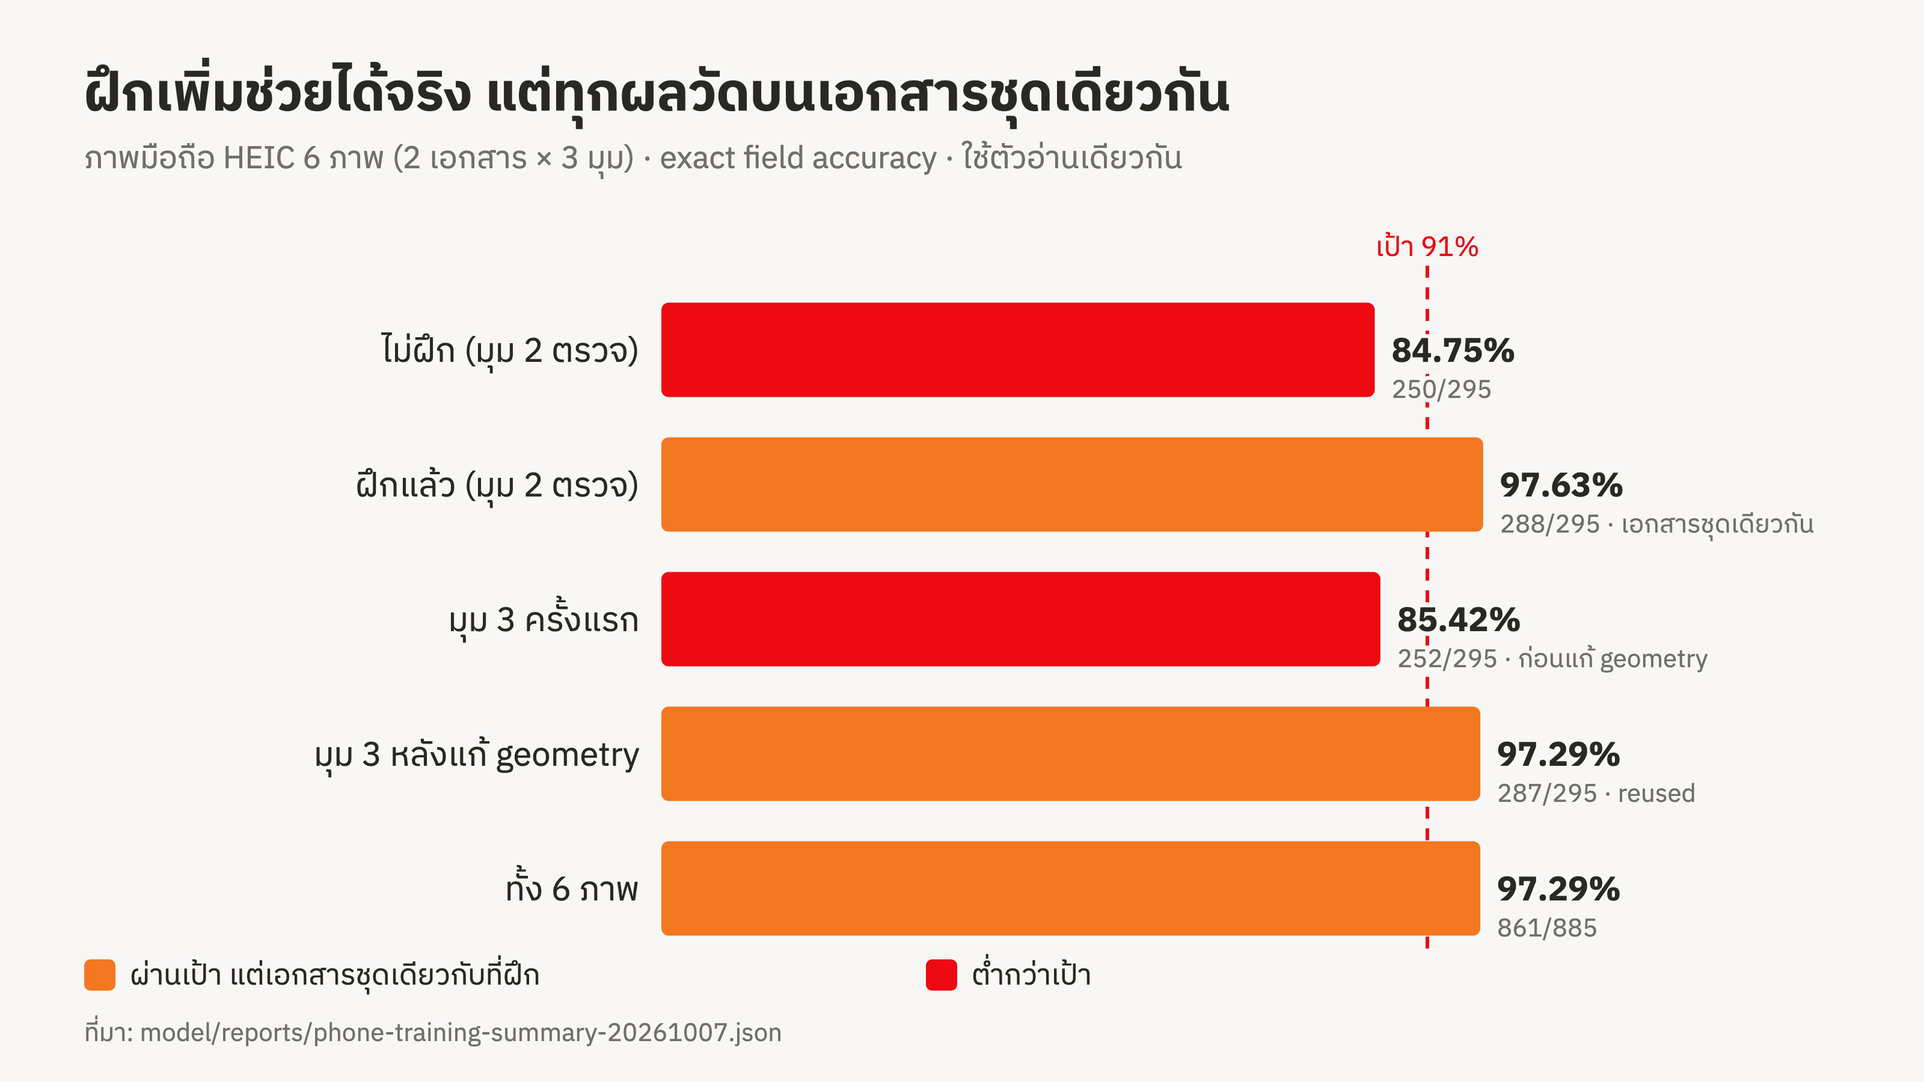
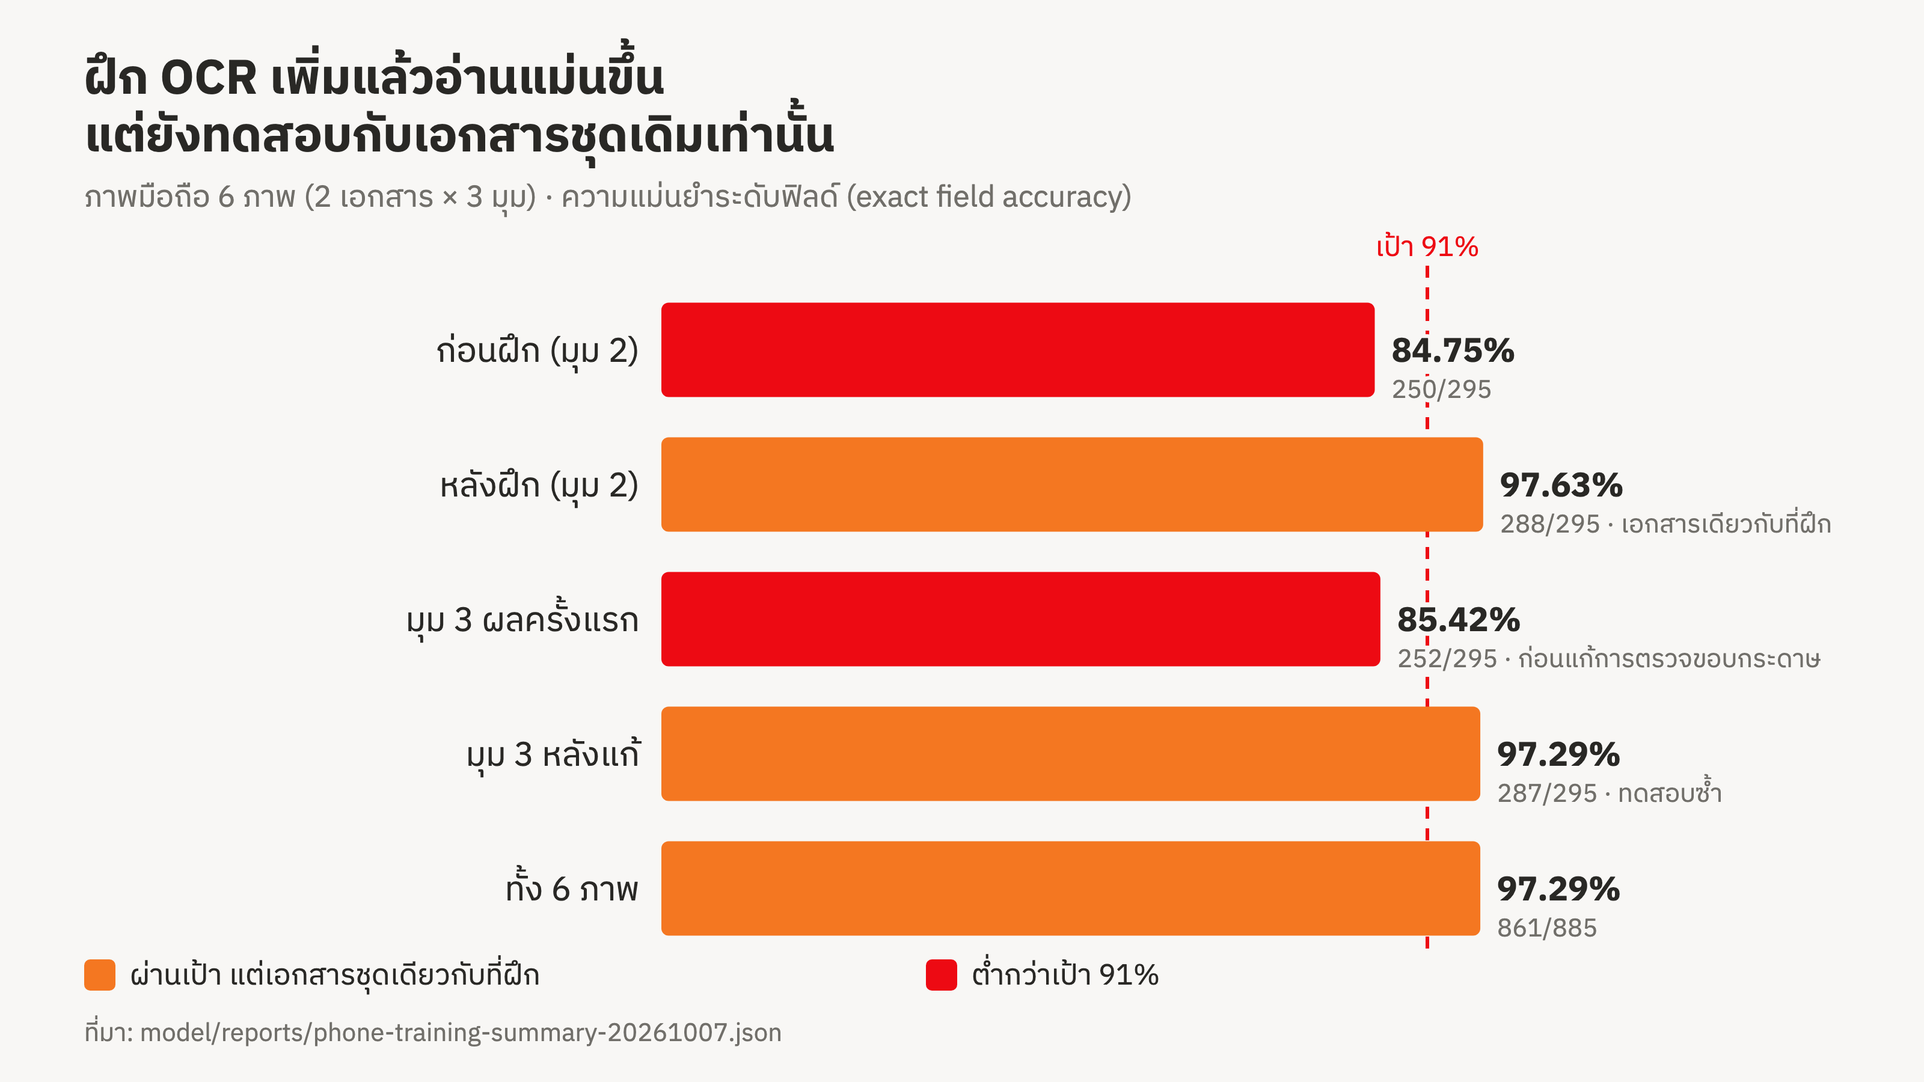
up

diff --git a/docs/presentation/slide.md b/docs/presentation/slide.md
@@ -447,7 +447,7 @@
 
 ### B2 · ตารางผลเต็ม
 
-**ชื่อสไลด์:** ผลทั้งหมดแยกชนิดอินพุต และระบุสถานะ blind / reused
+**ชื่อสไลด์:** ผลทดสอบทุกชุด แยกตามชนิดไฟล์ และบอกว่าชุดไหนเคยใช้ปรับระบบแล้ว
 
 **ผังหน้า (16:9)**
 
@@ -459,18 +459,20 @@
 | D | ล่างขวา (≈ 22%) | ตาราง T3: ภาพ augmented แยกความเสียหาย |
 | E | แถวล่างสุด | footnote ที่มา (ตัวเล็ก) |
 
-**T1 — ผลหลัก** (สถานะ: เขียว = ผ่านเป้า · ส้ม = ผ่านแต่ reused/ไม่ใช่ holdout · แดง = ต่ำกว่าเป้า)
+**T1 — ผลหลัก** (สถานะ: เขียว = ผ่านเป้า · ส้ม = ผ่านเป้า แต่ชุดนี้เคยใช้ปรับระบบแล้ว · แดง = ต่ำกว่าเป้า 91%)
+
+คำอธิบายใต้ตาราง 1 บรรทัด: **blind** = ทดสอบครั้งแรกก่อนแก้ระบบ · **reused** = ทดสอบซ้ำกับชุดเดิมหลังแก้ระบบแล้ว
 
 | ชุดอินพุต | ถูก/ทั้งหมด | Exact field | Row F1 | เวลาเฉลี่ย (วินาที) | สถานะ |
 |---|---:|---:|---:|---:|---|
 | PDF dev 35 ฉบับ | 4394/4551 | 96.55% | — | — | ส้ม · ชุดที่ใช้ปรับระบบ |
-| PDF test ครั้งแรก | 1182/1338 | 88.34% | — | — | **แดง · blind ไม่ผ่าน** |
-| PDF test หลังปรับ | 1307/1338 | 97.68% | — | — | ส้ม · reused |
-| ภาพต้นฉบับ PNG 150 DPI (test 12 ฉบับ) | 1281/1338 | 95.74% | 100% | 9.42 | ส้ม · reused |
-| ภาพ noise 47 ภาพ | 5445/5889 | 92.46% | 98.10% | 12.18 | ส้ม · dev+test รวม |
+| PDF test ครั้งแรก | 1182/1338 | 88.34% | — | — | **แดง · blind (ครั้งแรก) ไม่ผ่านเป้า** |
+| PDF test หลังปรับระบบ | 1307/1338 | 97.68% | — | — | ส้ม · reused (ทดสอบซ้ำ) |
+| ภาพต้นฉบับ PNG 150 DPI (test 12 ฉบับ) | 1281/1338 | 95.74% | 100% | 9.42 | ส้ม · reused (ทดสอบซ้ำ) |
+| ภาพ noise 47 ภาพ | 5445/5889 | 92.46% | 98.10% | 12.18 | ส้ม · รวมชุด dev และ test |
 | ภาพ augmented ผสม 60 ภาพ | 4373/6270 | **69.74%** | 82.55% | 14.22 (สูงสุด 44.33) | **แดง · ต่ำกว่าเป้า** |
-| ภาพมือถือ HEIC 6 ภาพ | 861/885 | 97.29% | 99.46% | 27.54 (สูงสุด 28.64) | ส้ม · เอกสารชุดเดียวกับที่ฝึก |
-| ภาพถ่ายหน้าจอ 4 มุม (เอกสารเดียว) | 423/600 | **70.50%** | 76.03% | 30.90 | **แดง · dev regression** |
+| ภาพมือถือ HEIC 6 ภาพ | 861/885 | 97.29% | 99.46% | 27.54 (สูงสุด 28.64) | ส้ม · เป็นเอกสารเดียวกับที่ใช้ฝึก |
+| ภาพถ่ายหน้าจอ 4 มุม (เอกสารเดียว) | 423/600 | **70.50%** | 76.03% | 30.90 | **แดง · ต่ำกว่าเป้า (ทดสอบเอกสารเดียว)** |
 
 **T2 — ภาพต้นฉบับแยกกลุ่มเอกสาร**
 
@@ -495,7 +497,7 @@
 
 ### B3 · การทดลอง Local VLM
 
-**ชื่อสไลด์:** Local VLM ช้าและแม่นน้อย จึงไม่เลือกเป็นเส้นทางหลัก
+**ชื่อสไลด์:** โมเดลอ่านภาพที่รันในเครื่อง (Local VLM) ช้าและแม่นน้อย จึงไม่ใช้เป็นวิธีหลัก
 
 **ผังหน้า (16:9)**
 
@@ -513,7 +515,7 @@
 | โมเดล | `scb10x/typhoon-ocr1.5-3b` → `qwen3:4b` (Ollama ในเครื่อง) |
 | อินพุต | ภาพ PNG 150 DPI จากชุด dev |
 | จำนวน | 4 ฉบับ (รูปแบบละ 1) |
-| ขีดจำกัดเวลา | 120 วินาที (ขั้น OCR) |
+| เวลาสูงสุดที่รอ (timeout) | 120 วินาที ในขั้นอ่านภาพ |
 | ค่า API | 0 USD |
 
 **T2 — ผลแต่ละรูปแบบ**
@@ -525,19 +527,19 @@
 | บัณฑิตศึกษา ไทย | timeout | > 120 วินาที |
 | บัณฑิตศึกษา อังกฤษ | timeout | > 120 วินาที |
 
-**T3 — เทียบกับเส้นทางที่ใช้จริง**
+**T3 — เทียบกับวิธีที่ระบบใช้งานจริง (Hybrid)**
 
-| เส้นทาง | Exact field | เวลาเฉลี่ย | ชุดข้อมูล |
+| วิธี | Exact field | เวลาเฉลี่ย | ชุดข้อมูล |
 |---|---:|---:|---|
 | **Hybrid** | **98.26%** | **0.43 วินาที** | PDF 8 ฉบับ |
-| Local VLM | 1.33% | 121.1 วินาที | **ภาพ PNG 4 ฉบับ (คนละชุด)** |
+| Local VLM | 1.33% | 121.1 วินาที | **ภาพ PNG 4 ฉบับ (คนละชุดกับ Hybrid)** |
 
 ข้อจำกัดของข้อสรุป: ทดสอบบนเครื่องที่ใช้พัฒนาเท่านั้น และเพียง 4 ฉบับ
 **Footnote:** `model/reports/vlm-dev.json`, `docs/process.md` (Decision Log 2026-09-20)
 
 ### B4 · การฝึก Tesseract สำหรับภาพมือถือ
 
-**ชื่อสไลด์:** ฝึกเพิ่มลด CER ได้จริง แต่ทุกผลวัดบนเอกสารชุดเดียวกัน
+**ชื่อสไลด์:** ฝึก OCR เพิ่มด้วยภาพมือถือ ทำให้อ่านผิดน้อยลงมาก แต่ยังทดสอบกับเอกสารชุดเดิมเท่านั้น
 
 **ผังหน้า (16:9)**
 
@@ -555,31 +557,31 @@
 |:---:|---|---|
 | 1 | ฝึก | 109 บรรทัด |
 | 2 | ตรวจ / เลือกค่า | 109 บรรทัด (2 ภาพ · 295 ฟิลด์) |
-| 3 | ทดสอบสุดท้าย (กันไว้) | 2 ภาพ · 295 ฟิลด์ |
+| 3 | ทดสอบสุดท้าย (เก็บไว้ ไม่ใช้ฝึก) | 2 ภาพ · 295 ฟิลด์ |
 
-**T2 — การลองชุดค่า** (baseline CER: Tesseract ที่ติดตั้ง 8.83% · weights รุ่นก่อน 7.86%)
+**T2 — การลองชุดค่า** (CER = อัตราอ่านผิดต่อตัวอักษร ยิ่งต่ำยิ่งดี · ก่อนฝึก: Tesseract ตัวที่ติดตั้ง 8.83% · โมเดลที่ฝึกจากภาพรุ่นก่อน 7.86%)
 
-| iterations | learning rate | CER (validation) | ผล |
+| จำนวนรอบฝึก (iterations) | learning rate | CER บนชุดตรวจ | ผล |
 |---:|---:|---:|---|
 | 100 | 0.0001 | 6.17% | |
 | **300** | **0.0001** | **2.31%** | **เลือก** |
 | 600 | 0.0001 | 2.49% | |
 | 300 | 0.0003 | 2.31% | เท่ากับที่เลือก ไม่ได้ดีกว่า |
 
-**กราฟ D:** ไม่ฝึก 84.75% → ฝึกแล้ว 97.63% (มุม 2) · มุม 3 ครั้งแรก 85.42% (ตรวจขอบกระดาษไม่ผ่านในบางภาพ และมีขอบมืดรวมบรรทัดหัวเอกสาร) → หลังแก้ geometry 97.29% **ต้องเรียก reused** ไม่ใช่ blind · ทั้ง 6 ภาพ 97.29% (row F1 99.46%, รหัสนักศึกษา 6/6, GPA สะสม 6/6)
+**กราฟ D (ความแม่นยำของฟิลด์):** ก่อนฝึก 84.75% → หลังฝึก 97.63% (มุม 2) · มุม 3 ครั้งแรก 85.42% เพราะตรวจขอบกระดาษไม่ผ่านในบางภาพและมีขอบมืดรวมบรรทัดหัวเอกสาร → หลังแก้การตรวจขอบกระดาษ 97.29% (นับเป็นการทดสอบซ้ำ ไม่ใช่ผลครั้งแรก) · ทั้ง 6 ภาพ 97.29% (รหัสนักศึกษาถูก 6/6, GPA สะสมถูก 6/6)
 **วิธีเตรียมข้อมูล:** จัดแนว PDF ต้นฉบับกับภาพด้วย SIFT + RANSAC (ใช้ตอนเตรียมข้อมูลฝึกเท่านั้น ไม่ใช้ตอนอ่านจริง)
 **Footnote:** `phone-training-summary-20261007.json`, `model/data/phone_ocr/training.json` (ตาราง T2 ส่วน 100/600 iterations และ lr 0.0003 มาจาก `docs/process.md`)
 
 ### B5 · ป้องกัน overfit
 
-**ชื่อสไลด์:** กัน catalog ออกทั้งฉบับ ผลลดลงเพียง 2.3 จุด แต่ยังไม่ใช่ holdout อิสระของทั้งระบบ
+**ชื่อสไลด์:** ตัดเอกสารที่วัดออกจากพจนานุกรมรายวิชา (catalog) ผลลดลงแค่ 2.3 จุด แต่ยังไม่ใช่การทดสอบกับเอกสารใหม่จริงๆ
 
 **ผังหน้า (16:9)**
 
 | โซน | พื้นที่ | เนื้อหา |
 |---|---|---|
 | A | แถวบน | ชื่อสไลด์ |
-| B | ซ้าย 55% | กราฟ `slide_assets/charts/b05_overfit.png` (3 แท่ง + เส้นเป้า 91%) |
+| B | ซ้าย 55% | กราฟ `slide_assets/charts/b05_overfit.png` (3 แท่ง + เส้นเป้า 91%) · catalog = พจนานุกรมรหัสวิชาและชื่อวิชาที่ใช้ซ่อมข้อความ OCR |
 | C | ขวา 45% | ตาราง T1: มาตรการป้องกัน และข้อจำกัดที่เหลือ |
 | D | แถวล่างสุด | footnote ที่มา |
 
@@ -588,12 +590,12 @@
 | มาตรการ | สถานะ | หมายเหตุ |
 |---|:---:|---|
 | catalog รหัสวิชา/หัวข้อ สร้างจากชุด dev เท่านั้น | ✓ ทำแล้ว | ไม่ใช้ชุด test |
-| วัดแบบกันเอกสารที่กำลังวัดออกจาก catalog ทั้งฉบับ | ✓ ทำแล้ว | `model/tools/benchmark_catalog_cv.py` |
+| วัดซ้ำโดยตัดเอกสารที่กำลังวัดออกจาก catalog ทั้งฉบับ | ✓ ทำแล้ว | `model/tools/benchmark_catalog_cv.py` |
 | ไม่ใช้เฉลยหรือชื่อไฟล์ตอนอ่าน (inference) | ✓ ทำแล้ว | parse ด้วยกฎล้วน |
-| parser/heuristic เคยปรับบนชุด dev | ✗ ข้อจำกัด | จึงไม่ใช่ holdout อิสระของทั้งระบบ |
-| ชุด test ถูกใช้วิเคราะห์ข้อผิดพลาดแล้ว | ✗ ข้อจำกัด | ผลหลังปรับเรียก reused |
+| ตัวแปลงข้อมูลและกฎซ่อมเคยปรับบนชุด dev | ✗ ข้อจำกัด | จึงยังไม่ใช่การทดสอบกับเอกสารใหม่จริงๆ |
+| ชุด test เคยถูกใช้วิเคราะห์ข้อผิดพลาดแล้ว | ✗ ข้อจำกัด | ผลหลังปรับจึงเป็นการทดสอบซ้ำ (reused) |
 
-**Footnote:** `noise-dev-term-fix.json` (94.42%), `noise-dev-catalog-held-out.json` (92.11%), `original-dev-catalog-held-out-all.json` (92.11%)
+**Footnote:** `noise-dev-term-fix.json` (94.42% catalog มีเอกสารที่วัดอยู่ด้วย), `noise-dev-catalog-held-out.json` (92.11% ตัดเอกสารที่วัดออก), `original-dev-catalog-held-out-all.json` (92.11% ตัดเอกสารที่วัดออก)
 
 ### B6 · การตรวจเฉลย (audit)
 
@@ -622,7 +624,7 @@
 | วิธีคิด | ถูก/ทั้งหมด | Exact field |
 |---|---:|---:|
 | ตามเฉลยเดิม (raw) | 1281/1338 | **95.74%** |
-| ตัดฟิลด์ที่เฉลยไม่ตรงทั้ง 23 ออก (conservative) | 1281/1315 | 97.41% |
+| ไม่นับฟิลด์ที่เฉลยไม่ตรงทั้ง 23 ฟิลด์ (นับเฉพาะที่เฉลยถูก) | 1281/1315 | 97.41% |
 | ตามเอกสารที่มองเห็น (เพิ่ม 11 ค่าที่ OCR ตรงเอกสาร ตัด 12 ฟิลด์ที่ไม่มีในเอกสาร) | 1292/1326 | 97.44% |
 
 **รุ่นก่อนหน้า (ตัวอย่างที่ audit มีผลต่อเป้า 91%):** ตามเฉลยเดิม 1211/1338 = 90.51% · ตามภาพที่ตรวจแล้ว 1221/1338 = 91.26% (แก้ 10 จุดวันที่ที่ OCR ตรงกับเอกสาร)
@@ -727,8 +729,8 @@ erDiagram
 | คำถาม | คำตอบ (พูดไม่เกิน 20 วินาที) | เปิดหน้า |
 |---|---|---|
 | ทำไมไม่ใช้ LLM/VLM อ่านเลย | ลองแล้ว Typhoon OCR + Qwen สำเร็จ 1/4 ฉบับ ถูก 1.33% ใช้ 121 วินาที ส่วน Hybrid 98.26% ใน 0.43 วินาที parser เป็นกฎที่แน่นอน จึงไม่แต่งข้อมูล | B3, S4 |
-| ผลนี้ overfit หรือไม่ | ลดความเสี่ยงโดยสร้าง catalog จาก dev เท่านั้น วัดแบบกันเอกสารออกได้ 92.11% เทียบ in-sample 94.42% แต่ parser ปรับบน dev และ test ถูกใช้แล้ว จึงยังไม่ใช่ holdout อิสระ | B5 |
-| blind กับ reused ต่างกันอย่างไร | blind คือทดสอบครั้งแรกก่อนแก้ ได้ 88.34% ไม่ผ่าน พอนำข้อผิดพลาดมาปรับแล้ววัดซ้ำชุดเดิมเรียก reused ได้ 97.68% | S12, B2 |
+| ผลนี้ overfit (จำข้อสอบ) หรือไม่ | ลดความเสี่ยงโดยสร้างพจนานุกรมรายวิชาจากชุด dev เท่านั้น ตัดเอกสารที่วัดออกแล้วได้ 92.11% เทียบ 94.42% ตอนไม่ตัด ต่างกัน 2.3 จุด แต่กฎซ่อมเคยปรับบน dev และ test ถูกใช้ไปแล้ว จึงยังไม่ใช่การทดสอบกับเอกสารใหม่จริงๆ | B5 |
+| blind กับ reused ต่างกันอย่างไร | blind คือผลทดสอบครั้งแรกก่อนแก้ระบบ ได้ 88.34% ไม่ผ่านเป้า เรานำข้อผิดพลาดมาปรับแล้ววัดซ้ำชุดเดิม เรียกว่า reused ได้ 97.68% ตัวเลขหลังจึงสูงกว่าที่ควรคาดกับเอกสารใหม่ | S12, B2 |
 | ข้อมูลที่อ่านไม่ออกจัดการอย่างไร | เก็บเป็นค่าว่าง ขึ้นช่องสีเหลืองและคำเตือน ให้ผู้ใช้ตรวจแก้ก่อนบันทึก ไม่เดาค่า | S10 |
 | เฉลยผิดหรือเปล่า | พบเฉลยไม่ตรงเอกสาร 23 ฟิลด์จาก test 12 ฉบับ (วันที่ 10 · ภาคสุดท้ายที่ไม่มีในเอกสาร 12 · หน่วยกิต 1) จึงรายงานทั้งคะแนนตามเฉลยเดิมและตามเอกสาร | B6 |
 | ทำไมใช้ข้อมูลจริงอย่างเดียว | อาจารย์อนุญาตให้ใช้ข้อมูลจริงอย่างเดียว ไม่บังคับ synthetic | S11 |
@@ -750,7 +752,7 @@ erDiagram
 
 ### B9 · เวลารายขั้นตอน (รายละเอียดและวิธีวัด)
 
-**ชื่อสไลด์:** Tesseract ใช้ 75–85% ของเวลาในเส้นทาง OCR ส่วนขั้นที่เป็นกฎ (parse/ซ่อม/ตรวจ) ใช้ไม่ถึง 0.03 วินาที
+**ชื่อสไลด์:** เมื่อต้อง OCR เวลา 75–85% หมดไปกับ Tesseract ส่วนแปลงข้อมูล ซ่อม และตรวจสอบรวมกันใช้ไม่ถึง 0.03 วินาที
 
 **ผังหน้า (16:9)**
 
@@ -758,13 +760,13 @@ erDiagram
 |---|---|---|
 | A | แถวบน | ชื่อสไลด์ |
 | B | บน เต็มกว้าง (≈ 40%) | กราฟ `slide_assets/charts/s13_stages.png` (ใช้ภาพเดียวกับ S13 ย่อขนาด) |
-| C | ล่างซ้าย 55% | ตาราง T1: เวลาแต่ละเส้นทาง (5 แถว) |
+| C | ล่างซ้าย 55% | ตาราง T1: เวลาแต่ละกรณี (5 แถว) |
 | D | ล่างขวา 45% | ตาราง T2: เวลาแยกรูปแบบเอกสาร (4 แถว) |
 | E | แถบล่างสุด | 3 กล่องข้อควรระวัง + footnote |
 
-**T1 — เวลาแต่ละเส้นทาง**
+**T1 — เวลาแต่ละกรณี**
 
-| เส้นทาง | เฉลี่ย | ช่วง (ต่ำสุด–สูงสุด) | ขั้นที่ใช้เวลามากสุด |
+| กรณี | เฉลี่ย | ช่วง (ต่ำสุด–สูงสุด) | ขั้นที่ใช้เวลามากสุด |
 |---|---:|---|---|
 | PDF ผ่านเกณฑ์ข้อความฝัง | 0.12 วินาที | 0.04–0.62 | pdftotext 80% |
 | PDF ไม่ผ่านเกณฑ์ → OCR | 5.10 | 3.20–7.45 | Tesseract 75% · Poppler render 24% |
